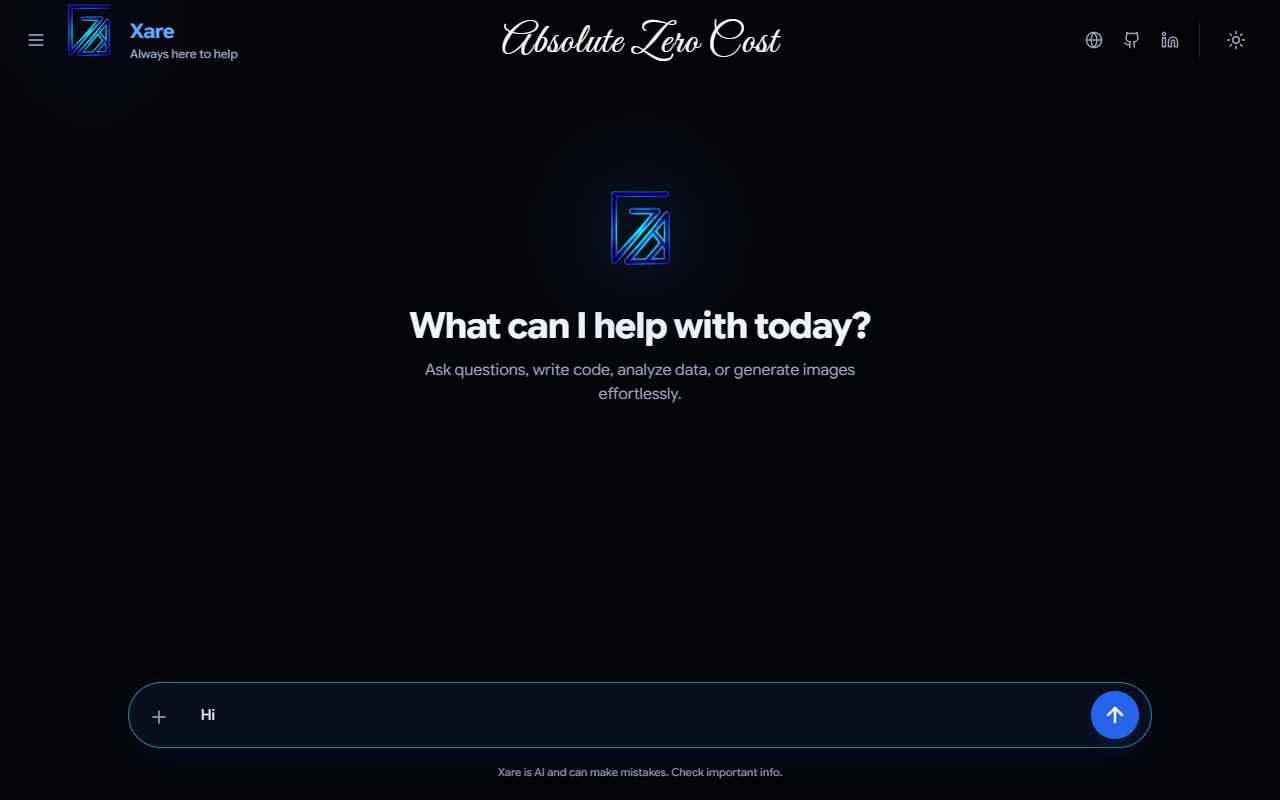
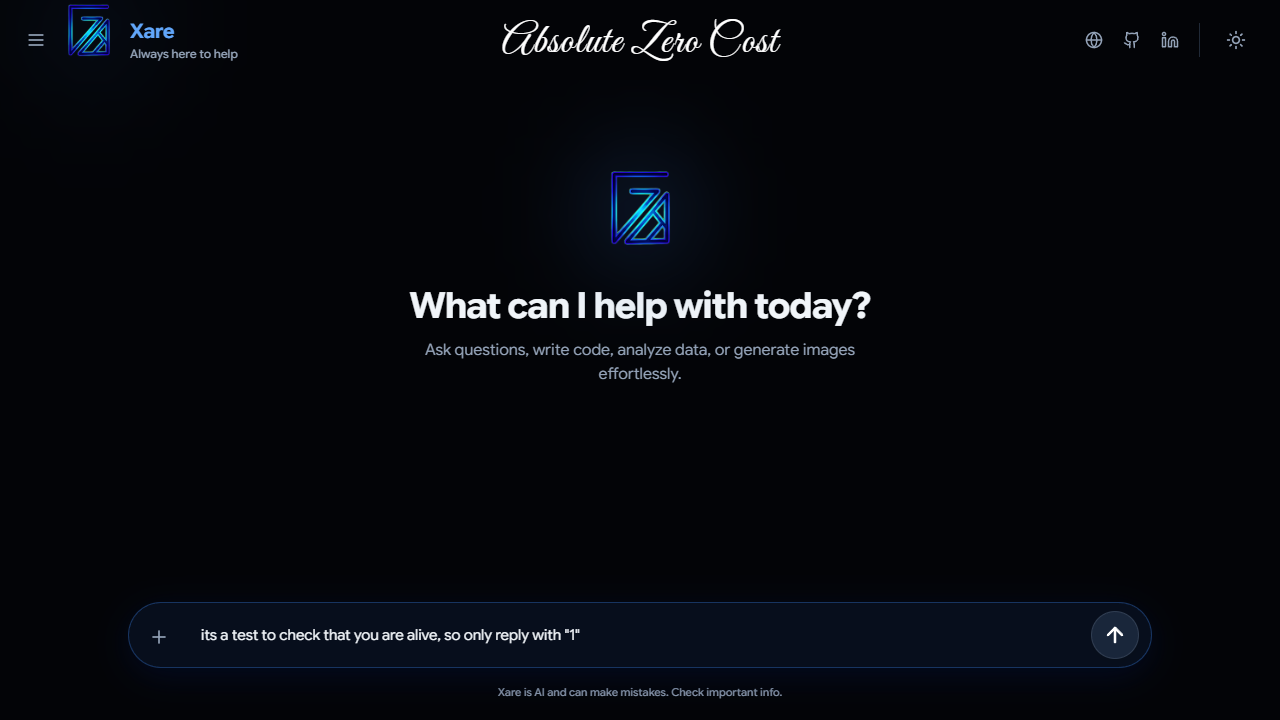
feat(warmup): update synthetic test prompt to 'its a test to check that you are alive, so only reply with " 1\'

diff --git a/api/warmup/index.ts b/api/warmup/index.ts
@@ -102,8 +102,8 @@ async function warmPrimaryN8n(runId: string): Promise<TargetExecutionRecord> {
     sessionId: `warmup_session_${runId}`,
     userId: 'xare-warmup-synthetic-agent',
     username: 'Xare Warmup Agent',
-    message: 'Hi',
-    chatInput: 'Hi',
+    message: 'its a test to check that you are alive, so only reply with "1"',
+    chatInput: 'its a test to check that you are alive, so only reply with "1"',
     messageId: `msg_${runId}`,
     requestId: `req_${runId}`,
     systemInstruction: DEFAULT_SYSTEM_INSTRUCTION,
@@ -224,7 +224,7 @@ async function warmEdgeStream(originUrl: string): Promise<TargetExecutionRecord>
       method: 'POST',
       headers,
       body: JSON.stringify({
-        prompt: 'Hi',
+        prompt: 'its a test to check that you are alive, so only reply with "1"',
         systemInstruction: DEFAULT_SYSTEM_INSTRUCTION
       }),
       signal: controller.signal
